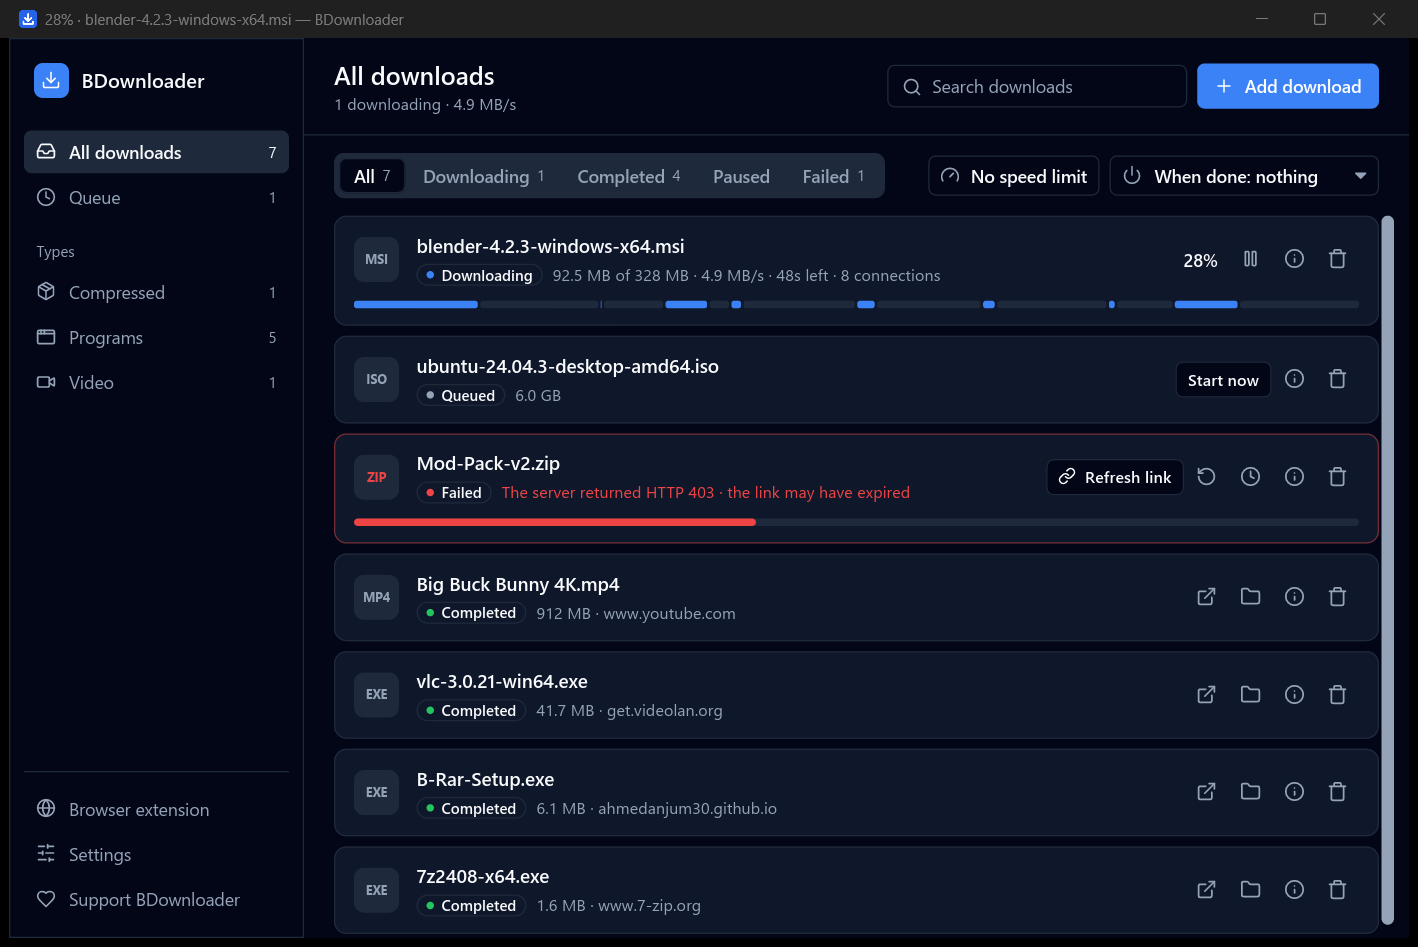
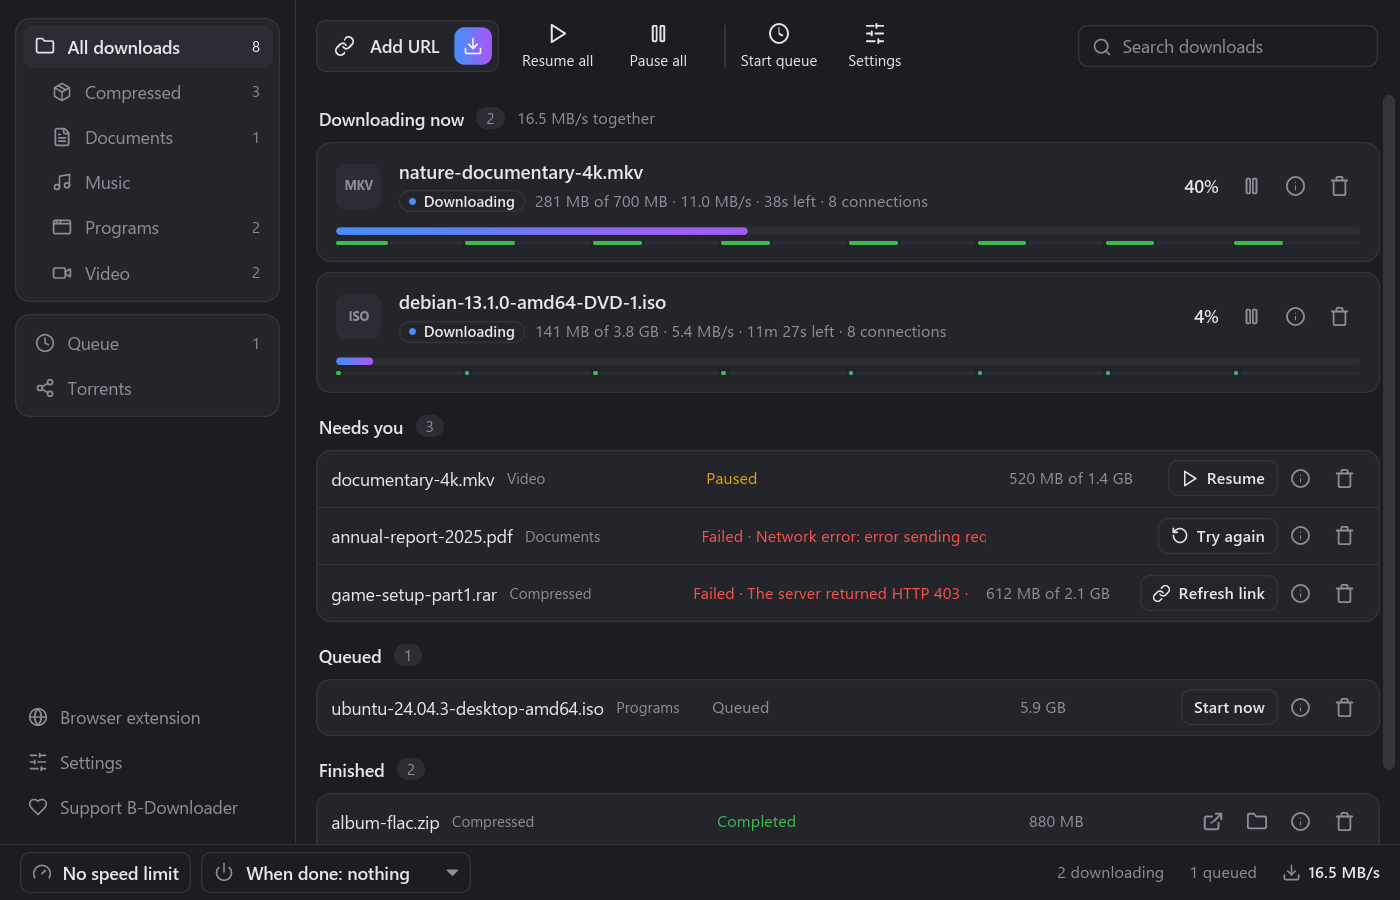
Site: the 1.3.0 look
New screenshots of the main window and the extension window, the app's
charcoal palette and gradient button, and screenshots that keep their
proportions when scaled down.

diff --git a/index.html b/index.html
@@ -13,7 +13,7 @@
 <meta property="og:url" content="https://ahmedanjum30.github.io/B-Downloader/">
 <meta property="og:image" content="https://ahmedanjum30.github.io/B-Downloader/images/social.png">
 <meta name="twitter:card" content="summary_large_image">
-<meta name="theme-color" content="#14171d">
+<meta name="theme-color" content="#1c1c21">
 <script type="application/ld+json">
 {
   "@context": "https://schema.org",
@@ -32,29 +32,32 @@
 }
 </script>
 <style>
-  /* The app's palette: shadcn/ui's slate scale with one blue. */
+  /* The app's palette: charcoal greys and one blue-to-violet gradient. */
   :root {
-    --bg: #ffffff; --bg-soft: #f8fafc; --card: #ffffff; --line: #e2e8f0;
-    --fg: #0f172a; --muted: #64748b; --accent: #2563eb; --accent-fg: #ffffff;
-    --hero: linear-gradient(160deg, #eff6ff 0%, #ffffff 60%);
+    --bg: #ffffff; --bg-soft: #f4f4f6; --card: #ffffff; --line: #dcdce2;
+    --fg: #1c1c21; --muted: #66666f; --accent: #2f6fdc; --accent-fg: #ffffff;
+    --grad: linear-gradient(90deg, #2f6fdc, #8340e0);
+    --hero: linear-gradient(160deg, #f1eefe 0%, #ffffff 60%);
   }
   @media (prefers-color-scheme: dark) {
     :root:not([data-theme="light"]) {
-      --bg: #020617; --bg-soft: #0b1222; --card: #0f172a; --line: #1e293b;
-      --fg: #f8fafc; --muted: #94a3b8; --accent: #3b82f6; --accent-fg: #ffffff;
-      --hero: linear-gradient(160deg, #0f1d3d 0%, #020617 60%);
+      --bg: #1c1c21; --bg-soft: #202026; --card: #24242b; --line: #34343d;
+      --fg: #e6e6ea; --muted: #8d8d98; --accent: #4a8df6; --accent-fg: #ffffff;
+      --grad: linear-gradient(90deg, #4a8df6, #a35bf7);
+      --hero: linear-gradient(160deg, #23213a 0%, #1c1c21 60%);
     }
   }
   :root[data-theme="dark"] {
-    --bg: #020617; --bg-soft: #0b1222; --card: #0f172a; --line: #1e293b;
-    --fg: #f8fafc; --muted: #94a3b8; --accent: #3b82f6; --accent-fg: #ffffff;
-    --hero: linear-gradient(160deg, #0f1d3d 0%, #020617 60%);
+    --bg: #1c1c21; --bg-soft: #202026; --card: #24242b; --line: #34343d;
+    --fg: #e6e6ea; --muted: #8d8d98; --accent: #4a8df6; --accent-fg: #ffffff;
+    --grad: linear-gradient(90deg, #4a8df6, #a35bf7);
+    --hero: linear-gradient(160deg, #23213a 0%, #1c1c21 60%);
   }
   * { box-sizing: border-box; }
   html { scroll-behavior: smooth; }
   body { margin: 0; background: var(--bg); color: var(--fg); font: 17px/1.6 "Segoe UI Variable Text", "Segoe UI", system-ui, -apple-system, sans-serif; }
   a { color: var(--accent); }
-  img { max-width: 100%; display: block; }
+  img { max-width: 100%; height: auto; display: block; }
   .wrap { max-width: 1120px; margin: 0 auto; padding: 0 16px; }
   header.bar { position: sticky; top: 0; z-index: 10; background: color-mix(in srgb, var(--bg) 85%, transparent); backdrop-filter: blur(10px); border-bottom: 1px solid var(--line); }
   header.bar .wrap { display: flex; align-items: center; gap: 16px; height: 60px; }
@@ -69,7 +72,7 @@
   .hero p.lead { font-size: clamp(17px, 2.2vw, 20px); color: var(--muted); max-width: 680px; margin: 0 auto 28px; }
   .cta { display: flex; flex-wrap: wrap; gap: 12px; justify-content: center; align-items: center; }
   .button { display: inline-flex; align-items: center; gap: 10px; padding: 13px 22px; border-radius: 10px; font-weight: 600; text-decoration: none; font-size: 16px; }
-  .button.primary { background: var(--accent); color: var(--accent-fg); box-shadow: 0 6px 24px color-mix(in srgb, var(--accent) 35%, transparent); }
+  .button.primary { background: var(--grad); color: var(--accent-fg); box-shadow: 0 6px 24px color-mix(in srgb, var(--accent) 35%, transparent); }
   .button.primary:hover { filter: brightness(1.08); }
   .button.secondary { color: var(--fg); border: 1px solid var(--line); background: var(--card); }
   .store img { height: 48px; width: auto; }
@@ -133,7 +136,7 @@
         <a class="button secondary" href="https://github.com/ahmedanjum30/B-Downloader">View on GitHub</a>
       </div>
       <p class="meta">Windows 10 and 11 · About 5 MB · No admin rights needed · Free for personal use</p>
-      <div class="shot"><img src="images/app.png" width="1418" height="947" alt="BDownloader downloading a file over 8 connections, with a queued download, a failed one offering Refresh link, and finished downloads below"></div>
+      <div class="shot"><img src="images/app.png" width="1400" height="900" alt="BDownloader with two files downloading over 8 connections each, then the downloads that need you (one paused, two failed, one offering Refresh link), a queued download and finished ones"></div>
     </div>
   </div>
 
@@ -202,7 +205,7 @@
           <li><b>Chrome, Brave, Opera, Vivaldi</b>a few guided steps inside BDownloader</li>
         </ul>
       </div>
-      <img class="rounded" src="images/extension.png" width="676" height="742" alt="BDownloader's browser extension window, showing it connected, with tabs for Chrome, Edge, Brave, Opera, Vivaldi and Firefox and an Add to Firefox button">
+      <img class="rounded" src="images/extension.png" width="676" height="742" alt="BDownloader's browser extension window, with tabs for Chrome, Edge, Brave, Opera, Vivaldi and Firefox and an Add to Firefox button">
     </div>
   </section>
 
